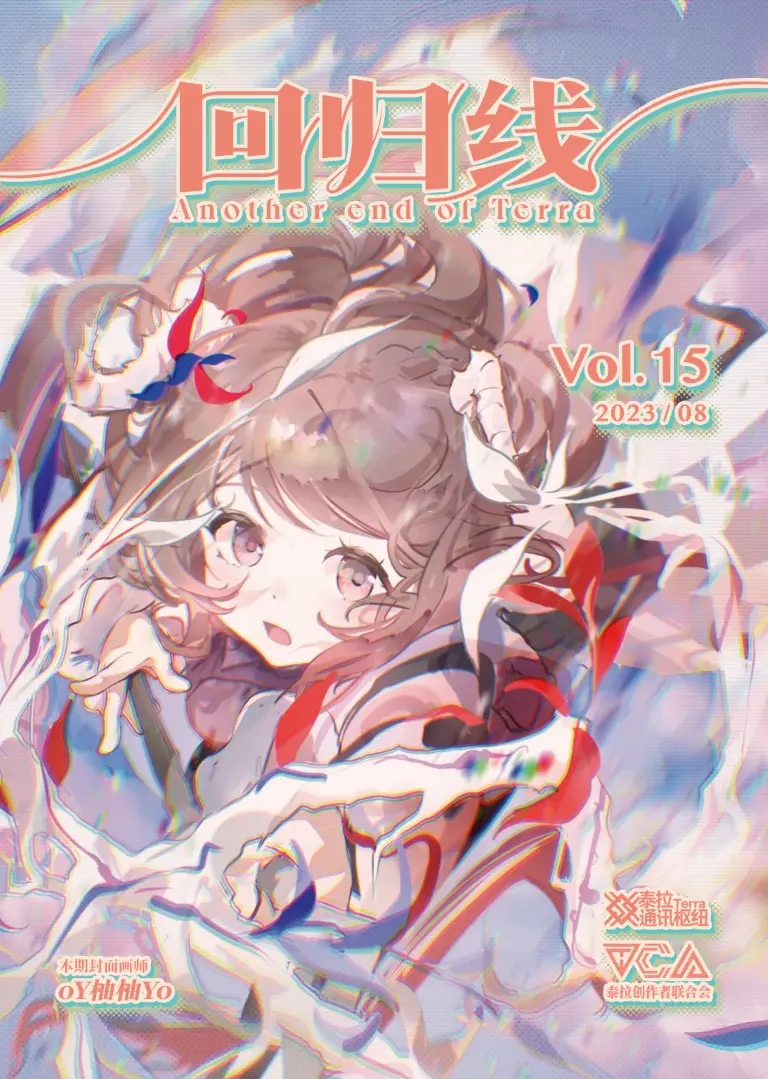
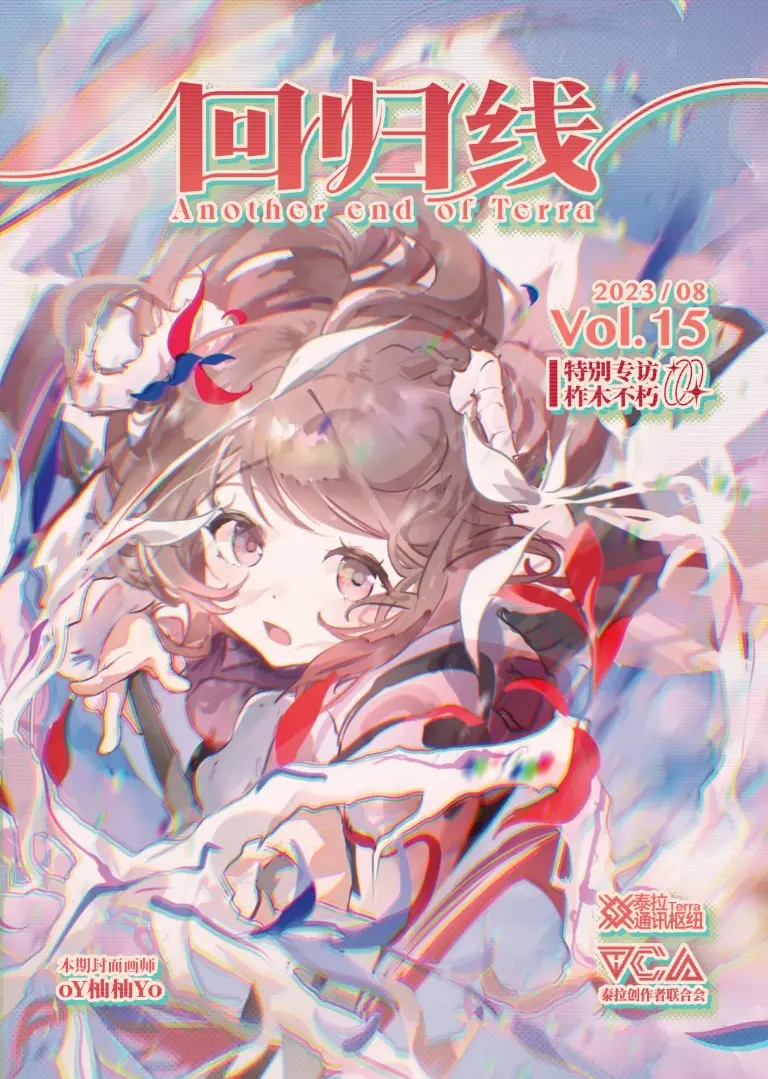
preload

diff --git a/docs/.vuepress/config.ts b/docs/.vuepress/config.ts
@@ -20,7 +20,7 @@ export default defineUserConfig({
   head: [
     ['link', { rel: 'icon', href: '/eod.png' }],
     ['link', { rel: 'manifest', href: '/manifest.json' }],
-    ['meta', { name: 'theme-color', content: '#46f9fa' }], // 主题色
+    ['meta', { name: 'theme-color', content: '#d54440' }], // 主题色
     ['meta', { name: 'apple-mobile-web-app-capable', content: 'yes' }],
     ['meta', { name: 'apple-mobile-web-app-status-bar-style', content: 'default' }],
     ['link', { rel: 'apple-touch-icon', href: '/icon/apple-touch-icon-152x152.png' }],

diff --git a/docs/posts/2023-08/article4.md b/docs/posts/2023-08/article4.md
@@ -159,9 +159,6 @@ order: 5
 
 ---
 
-
-
-
 “侦察小队已抵达安全区域。”
 
 指挥室里，凯尔希，Touch，Logos从紧张的指挥通讯中解放出来。
@@ -274,12 +271,6 @@ order: 5
 
 ---
 
-
-
----
-
-
-
 亚叶正坐在手术室外的长椅上，而她身边小车上放着弃置的手术器械，几把镊子，以及几团染血的纱布，赫默的医疗无人机留置在外面为她提供协助，赫默和苏苏洛则在手术室内抢救亚叶撕开了自己右边的袖管，一边咬着布团一边为自己清理伤口，她嘶着凉气，拿起持针钳为自己缝合，她抬起头看了从走廊那一头走来的人一眼，然后又专注于缝合中。
 
 “这个不疼，有话快——唉……有什么事吗？”
@@ -352,12 +343,6 @@ order: 5
 
 ---
 
-
-
----
-
-
-
 “博士，这是后勤部整理的物资清单。”陨星把一张纸递过去。
 
 办公室里，陨星仍旧帮他整理着今天本来要处理的文件，新的由信使送来的信件，还有七个小时中所派生出的各种事项的记录。
@@ -411,12 +396,6 @@ order: 5
 
 ---
 
-
-
----
-
-
-
 “我们出发了。”
 
 “尽量快些。”
@@ -440,12 +419,6 @@ Tita，tita。
 漫长而难熬的等待。
 
 ---
-
-
-
----
-
-
 
 亚叶被歌声从睡梦中唤醒，她做了一个长梦，梦见昨天的自己没有逃出来，她终于倒在了乌萨斯的土地上，在血泊中解脱，不用再躲藏，不用再斗争。而当她醒来，她感到一丝被自己所厌恶的惋惜。她想起昨晚自己太过疲累睡去了，她并没有知晓刻刀手术的结果。她揉了揉眼睛，坐在床边，她渐渐明晰了她所听到的是什么。
 
@@ -537,12 +510,6 @@ Tita，tita。
 
 ---
 
-
-
----
-
-
-
 “外事部给魏长官递上去了？”
 
 “今早的事。”
@@ -562,12 +529,6 @@ Tita，tita。
 “……”
 
 ---
-
-
-
----
-
-
 
 “像这样，这样，对，把腿稍微抬起来一点，疼吗？”
 
@@ -651,12 +612,6 @@ Tita，tita。
 
 ---
 
-
-
----
-
-
-
 “呃，这又是一大笔花费……”星源看着眼前到处走动的人，堆叠的物资，小型工业机械的轰鸣这么感叹道。“该说罗德岛在救助感染者方面不遗余力呢，还是说罗德岛在其他方面经费审批都很严格呢。”她拧好了临时板房的螺丝。
 
 “这比政治象征好多了吧？它还是能发挥作用的。至于之后的所有权归于谁，这就不关我们事了。”火哨一边招呼着同事一边给雪雉递来遥控器。
@@ -733,12 +688,6 @@ Tita，tita。
 
 ---
 
-
-
----
-
-
-
 疗养庭院的调香室，也兼用治疗室和谈话室，和煦的香薰烟雾带着令人平静的气味，既不会让人感到呼吸困难，又能让人置身于另一个空间一般。陌生感是很重要的，不敢说出的话，不想表达的态度，不敢溢出的情感，在陌生的世界里都可以释放出来。调香师在温室里哼着歌跟波登可在照顾苗圃，今天庭院的主人给两人腾出了对话的空间。
 
 ---
@@ -802,12 +751,6 @@ Tita，tita。
 亚叶医生，会感到害怕是正常的啊。她轻轻地吐出叹息，执起钢笔在自己的日记本上写下对亚叶的分析，感受，以及今天对自己的观察。而她前日的星象观测记录，又被打上了大段红色刺眼的圆圈。
 
 ---
-
-
-
----
-
-
 
 “伤得很重啊，给，这是夏栎姐给你带的莓果干，那天石英一直念叨着，我也就去问了，不过说真的，石英做的甜品确实吃不了，你得劝劝她。”这是依然带着死鱼眼的斑点。
 
@@ -876,12 +819,6 @@ Tita，tita。
 
 ---
 
-
-
----
-
-
-
 “你不是说要给那位医生画幅画来着？”
 
 “没必要了，”夕兴趣缺缺地撇着画笔，“我以为给她一场重逢，兴许她会了却心愿，又或者，此间虚妄，让她迷醉其中，麻木些许痛楚。虽然可叹，但遮目不见的人也不少。”
@@ -912,12 +849,6 @@ Tita，tita。
 
 ---
 
-
-
----
-
-
-
 亚叶最终还是没有接受豆苗她们一起到龙门商业街走走的邀请，她决定动身去补给点探望那群感染者，她知道那里有乌萨斯边境人员入驻，她没有带武器，也没有带标识，她只是去看看，作为一个最普通的见证者。
 
 她还要不断地磨砺自己，不断精进自己的战斗技巧，医疗技能，决断水平，下次战斗的时候，她还能做得更好。
@@ -937,5 +868,7 @@ Tita，tita。
 ---
 
 她今天系着蓝色的领巾，很漂亮，很怀念。<eod />
+
+（责任编辑：瑶濯；网页排版：武乙凌薇）
 
 <FakeAds />

diff --git a/docs/posts/2023-08/article2.md b/docs/posts/2023-08/article2.md
@@ -39,6 +39,8 @@ order: 3
 
     菲林并未回答他，只是自顾自地接着节拍唱下去。她的舞步亦未停歇，灵巧的，宛若云兽。只不过此时此刻她正闭上眼，纯粹地享受这一刻。她既没有带施术单元，身上也没地方隐藏暗器，这点情报官在她出门之后便确认过了。她身上穿着的礼裙是她刚入学时正流行的款式，但这款太过朴素，反而不受贵族小姐们的喜爱。当年她选择的是更为花哨的另一款，在舞会上大放异彩，又因举止得当，舞步优美，深受贵族们青睐。情报官正在犹豫是否要陪她继续玩下去时，已经被女主演带上舞台。她的手指从肩头握向脖颈，情报官迅速抽出挂在腿上的匕首抵在她腰后，女主演完全忽视掉对方不友好的动作，面不改色地调笑，“阁下，只用一只手，会跟不上舞步的。”
 
+![](./res/illustration/文配图（歆鸢）.webp) {style="float:right;max-width:60%;margin-left:1em"}
+
     呼吸、心跳，这一切都会随着手搭在颈边而改变，人还会下意识做出一些小动作暴露本心。阿赫茉妮只是微垂眼帘，视线在两人之间飘忽不定。她自然地握上他的手，仿若那里没有匕首，与他继续舞蹈，哼唱流行歌曲。
 
   “来吧 就这样抬起脚后跟
@@ -70,5 +72,7 @@ order: 3
    “没错 只有舞者才能以磨损殆尽的舞鞋
 
      骄傲地回忆自己辉煌的过往-♪”<eod />
+
+（责任编辑：瑶濯；网页排版：武乙凌薇；绘图：歆鸢）
 
 <FakeAds />

diff --git a/docs/posts/2023-08/article1.md b/docs/posts/2023-08/article1.md
@@ -17,6 +17,8 @@ order: 2
 
 “我跟你说啊，我以前做过很多工作哦！什么导游啊，主持人啊……这些都不在话下，我不仅口才好，而且游戏什么的都打得很不错哦！就算最后做直播了也有很多观众喜欢我呢！”
 
+![](./res/illustration/尤里卡(yooooz).webp) {style="float:right;max-width:40%;margin-left:1em"}
+
 尤里卡对着电脑夸夸其谈，一副神气的样子显示在电脑中央。随后她拿起手机打字，不一会儿，电脑上缓缓划过一条弹幕。
 
 “真的吗？主播真不愧是全能型美少女呢！”
@@ -50,6 +52,8 @@ order: 2
 她娴熟地放好调料，拿着热水壶往里面注水时，看着冒着气的热水不禁出了神——
 
 “哈喽哈喽！新观众初次见面，老观众一日不见！我是你们的尤……全能型美少女主播！U- official哦！”
+
+![](./res/illustration/尤里卡（平方²）.webp) {style="float:right;max-width:40%;margin-left:1em"}
 
 看着逐渐上升的人气，她也开始卖力了些：“今天我们还是继续挑战昨天那个恐怖游戏哦！哼哼，今天不会被你们抓拍到被吓到的样子发在网上了，来吧！我已经准备好了！”
 
@@ -218,5 +222,7 @@ order: 2
 为了什么她也不清楚，反正她就是喜欢直播，喜欢和粉丝互动的感觉，喜欢沉浸在自己的小世界里和他人一起交流。
 
   她喜欢自己，喜欢不随波逐流的感觉。<eod />
+
+（责任编辑：广英和荣耀；网页排版：武乙凌薇；绘图1：yooooz；绘图2：平方²）
 
 <FakeAds />

diff --git a/docs/posts/2023-08/paintings.md b/docs/posts/2023-08/paintings.md
@@ -10,11 +10,37 @@ tag:
 
 order: -1
 ---
+
 <!-- more -->
+
+---
+
+![](./res/illustration/星极（liliyFox）.webp) {.centering}
+
+Artist: liliyFox
+
+---
+
+![](./res/illustration/独立插黑键白垩（枫雀）.webp) {.centering}
+
+Artist: 枫雀
+
+---
+
+![](./res/illustration/狼羊（煜灼灼）.webp) {.centering}
+
+Artist: 煜灼灼
+
+---
+
+![](./res/illustration/独立插（枫雀･ω･｀）.webp) {.centering}
+
+Artist: 枫雀･ω･｀)
 
 ---
 
 ![](./res/illustration/独立插（汤罐浣熊）.webp) {.centering}
 
 Artist: 汤罐浣熊
+
 <FakeAds />

diff --git a/docs/posts/2023-08/article3.md b/docs/posts/2023-08/article3.md
@@ -195,7 +195,7 @@ order: 4
 
 她说，她永远会等待着你，等待着你们的重聚，与先贤们一起在那远方注视着这片复苏的大地。  
 
-就算海洋沸腾，大气消失。    
+就算海洋沸腾，大气消失。
 
 就算卫星坠入重力的漩涡。  
 
@@ -456,5 +456,7 @@ order: 4
 待我们再会，你会如何评价我的一生，以及我的死亡呢？
 
 我会像你说的那样，成为那“英灵殿”的瓦尔基里吗？<eod />
+
+（责任编辑：瑶濯；网页排版：aleph的法则）
 
 <FakeAds />

diff --git a/docs/README.md b/docs/README.md
@@ -6,10 +6,10 @@ title: 主页
 heroText: 回归线
 heroFullScreen: false
 # 在这里修改抬头画师
-tagline: © 猛男环游世界 2023·08
+tagline: © oY柚柚Yo 2023·08
 # 在这里修改版头主题色
 # 同时修改config.ts中的themeColor
-heroAlt: '#46f9fa'
+heroAlt: '#d54440'
 projects:
   - icon: read
     name: 期刊一览

diff --git a/docs/posts/2023-07/article4.md b/docs/posts/2023-07/article4.md
@@ -22,6 +22,7 @@ order: 5
 <!-- more -->
 
 ![](./res/illustration/林中的复仇者_文章配图_weibo@夕檽.webp) {.centering}
+
 ## 一
 
 ---

diff --git a/docs/posts/2023-08/interview.md b/docs/posts/2023-08/interview.md
@@ -11,7 +11,9 @@ tag:
 order: -4
 ---
 
-{.textkai}
+
+![](./res/illustration/skland1.webp) {.centering}
+
 
 <!-- more -->
 
